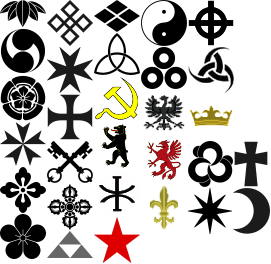
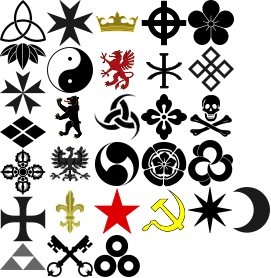
add independents

diff --git a/src/mapgen.ts b/src/mapgen.ts
@@ -36,6 +36,8 @@ module Rance
       [type: string]: (any) => Star[];
     } = {};
 
+    startLocations: Star[] = [];
+
     drawnMap: PIXI.DisplayObjectContainer;
 
     constructor()
@@ -91,7 +93,9 @@ module Rance
       this.severArmLinks();
 
       this.setPlayers();
-      
+      this.setDistanceFromStartLocations();
+
+      this.setupPirates();
 
       return this;
     }
@@ -120,10 +124,102 @@ module Rance
         });
         location.addBuilding(sectorCommand);
 
+        this.startLocations.push(location);
+
         var ship = new Unit(Templates.ShipTypes.battleCruiser);
         player.addUnit(ship);
 
         var fleet = new Fleet(player, [ship], location);
+        /*
+        if (i === 0)
+        {
+          var neighbors = location.getAllLinks();
+
+          for (var j = 0; j < neighbors.length; j++)
+          {
+            var _player = players[j+1];
+
+            var _ships = [];
+            for (var k = 0; k < 6; k++)
+            {
+              var _ship = makeRandomShip();
+              _player.addUnit(_ship);
+              _ships.push(_ship);
+            }
+            var _fleet = new Fleet(_player, _ships, neighbors[j]);
+          }
+        }
+        */
+      }
+    }
+    setDistanceFromStartLocations()
+    {
+      var nonFillerPoints = this.getNonFillerPoints();
+
+      for (var i = 0; i < this.startLocations.length; i++)
+      {
+        var startLocation = this.startLocations[i];
+        for (var j = 0; j < nonFillerPoints.length; j++)
+        {
+          var star = nonFillerPoints[j];
+
+          var distance = star.getDistanceToStar(startLocation);
+
+
+          if (!isFinite(star.distanceFromNearestStartLocation))
+          {
+            star.distanceFromNearestStartLocation = distance;
+          }
+          else
+          {
+            star.distanceFromNearestStartLocation =
+              Math.min(distance, star.distanceFromNearestStartLocation)
+          }
+        }
+      }
+    }
+
+    setupPirates()
+    {
+      var nonFillerPoints = this.getNonFillerPoints();
+      var minShips = 2;
+      var maxShips = 8;
+      var player = pirates;
+
+      for (var i = 0; i < nonFillerPoints.length; i++)
+      {
+        var star = nonFillerPoints[i];
+
+        if (!star.owner)
+        {
+          star.owner = player;
+          player.addStar(star);
+          var sectorCommand = new Building(
+          {
+            template: Templates.Buildings.sectorCommand,
+            location: star
+          });
+          star.addBuilding(sectorCommand);
+
+          var shipAmount = minShips;
+          var distance = star.distanceFromNearestStartLocation;
+
+          for (var j = 2; j < distance; j++)
+          {
+            if (shipAmount >= maxShips) break;
+
+            shipAmount += randInt(0, 1);
+          }
+
+          var ships = [];
+          for (var j = 0; j < shipAmount; j++)
+          {
+            var ship = makeRandomShip();
+            player.addUnit(ship);
+            ships.push(ship);
+          }
+          var fleet = new Fleet(player, ships, star);
+        }
       }
     }
 

diff --git a/src/player.ts b/src/player.ts
@@ -15,6 +15,7 @@ module Rance
     id: number;
     name: string;
     color: number;
+    colorAlpha: number;
     secondaryColor: number;
     flag: Flag;
     icon: string;
@@ -50,7 +51,31 @@ module Rance
       this.color = scheme.main;
       this.secondaryColor = scheme.secondary;
     }
+    setupPirates()
+    {
+      this.color = 0x000000;
+      this.colorAlpha = 0;
+      this.secondaryColor = 0xFFFFFF;
 
+      var foregroundEmblem = new Emblem(this.secondaryColor);
+      foregroundEmblem.inner = 
+      {
+        type: "both",
+        foregroundOnly: true,
+        imageSrc: "pirateEmblem.png"
+      };
+
+      this.flag = new Flag(
+      {
+        width: 46,
+        mainColor: this.color,
+        secondaryColor: this.secondaryColor,
+        foregroundEmblem: foregroundEmblem
+      });
+
+      var canvas = this.flag.draw();
+      this.icon = canvas.toDataURL();
+    }
     makeFlag()
     {
       if (!this.color || !this.secondaryColor) this.makeColorScheme();
@@ -65,9 +90,6 @@ module Rance
       this.flag.generateRandom();
       var canvas = this.flag.draw();
       this.icon = canvas.toDataURL();
-
-      var self = this;
-
     }
     addUnit(unit: Unit)
     {
